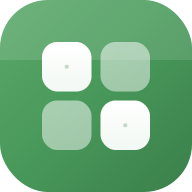
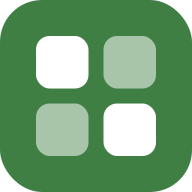
Add files via upload

diff --git a/index.html b/index.html
@@ -6,9 +6,14 @@
 <title>جدولي | مدرسة الليث بن سعد</title>
 <meta name="description" content="الجدول الأسبوعي لطلاب الصف الثاني المتوسط، الفصل 5/2">
 <meta name="theme-color" content="#f2f7ee">
-<link rel="manifest" href="manifest.webmanifest">
-<link rel="icon" href="icons/icon.svg" type="image/svg+xml">
-<link rel="apple-touch-icon" href="icons/icon-192.png">
+<link rel="manifest" href="/manifest.webmanifest">
+<link rel="icon" href="/icons/icon-192.png" type="image/png" sizes="192x192">
+<link rel="icon" href="/icons/icon-512.png" type="image/png" sizes="512x512">
+<link rel="apple-touch-icon" href="/icons/icon-192.png" sizes="192x192">
+<meta name="mobile-web-app-capable" content="yes">
+<meta name="apple-mobile-web-app-capable" content="yes">
+<meta name="apple-mobile-web-app-status-bar-style" content="default">
+<meta name="apple-mobile-web-app-title" content="جدولي">
 <link rel="preconnect" href="https://fonts.googleapis.com">
 <link rel="preconnect" href="https://fonts.gstatic.com" crossorigin>
 <link href="https://fonts.googleapis.com/css2?family=Readex+Pro:wght@300;400;500;600;700&display=swap" rel="stylesheet">
@@ -138,13 +143,40 @@ summary{min-height:46px;display:flex;align-items:center;font-weight:500;cursor:p
 .detail-row:nth-child(3){animation-delay:.12s}
 .detail-row .ic-wrap{width:42px;height:42px;border-radius:14px;background:var(--surface);display:grid;place-items:center;color:var(--pri)}
 .detail-row .meta{flex:1}.detail-row .meta b{display:block;font-size:.82rem;color:var(--muted);font-weight:500}.detail-row .meta span{font-weight:600}
-.prow{cursor:pointer;transition:transform .18s,background .25s}
+.prow{cursor:pointer;transition:transform .18s,background .25s;animation:fadeSlide .4s cubic-bezier(.2,.85,.2,1) both}
 .prow:active{transform:scale(.98)}
-.card{animation:fadeSlide .35s cubic-bezier(.2,.85,.2,1) both}
+.plist .prow:nth-child(1){animation-delay:.02s}
+.plist .prow:nth-child(2){animation-delay:.05s}
+.plist .prow:nth-child(3){animation-delay:.08s}
+.plist .prow:nth-child(4){animation-delay:.11s}
+.plist .prow:nth-child(5){animation-delay:.14s}
+.plist .prow:nth-child(6){animation-delay:.17s}
+.plist .prow:nth-child(7){animation-delay:.2s}
+.card{animation:fadeSlide .38s cubic-bezier(.2,.85,.2,1) both}
+.chips{animation:fadeSlide .32s cubic-bezier(.2,.85,.2,1) both}
+.chip{transition:transform .2s,background .25s,color .25s}
+.chip:active{transform:scale(.94)}
+.btns{animation:fadeSlide .4s cubic-bezier(.2,.85,.2,1) both}
+.btn{transition:transform .18s,filter .2s,background .25s}
+.arch{animation:fadeSlide .4s cubic-bezier(.2,.85,.2,1) both}
+.arch:nth-child(2){animation-delay:.05s}
+.arch:nth-child(3){animation-delay:.1s}
+.arch:nth-child(4){animation-delay:.15s}
+.hero{animation:fadeSlide .36s cubic-bezier(.2,.85,.2,1) both}
+.row-slide{animation:slideIn .4s cubic-bezier(.2,.85,.2,1) both}
+.seg{animation:fadeSlide .35s cubic-bezier(.2,.85,.2,1) both}
+.edit-tw{animation:fadeSlide .4s cubic-bezier(.2,.85,.2,1) both}
+.stick{animation:fadeSlide .45s cubic-bezier(.2,.85,.2,1) both}
+.tools{animation:fadeSlide .38s cubic-bezier(.2,.85,.2,1) both}
+.detail-hero{animation:fadeSlide .35s cubic-bezier(.2,.85,.2,1) both}
+#view.slide-in > *{animation:fadeSlide .4s cubic-bezier(.2,.85,.2,1) both}
+#view.slide-in > *:nth-child(2){animation-delay:.04s}
+#view.slide-in > *:nth-child(3){animation-delay:.08s}
+#view.slide-in > *:nth-child(4){animation-delay:.12s}
 @keyframes slideUp{from{transform:translateY(100%);opacity:.55}to{transform:translateY(0);opacity:1}}
 @keyframes scaleIn{from{transform:scale(.94);opacity:0}to{transform:scale(1);opacity:1}}
-@keyframes slideIn{from{transform:translateX(18px);opacity:0}to{transform:translateX(0);opacity:1}}
-@keyframes fadeSlide{from{transform:translateY(12px);opacity:0}to{transform:translateY(0);opacity:1}}
+@keyframes slideIn{from{transform:translateX(22px);opacity:0}to{transform:translateX(0);opacity:1}}
+@keyframes fadeSlide{from{transform:translateY(16px);opacity:0}to{transform:translateY(0);opacity:1}}
 @keyframes fd{from{opacity:0}}
 @media(prefers-reduced-motion:reduce){*{animation-duration:.01ms!important;transition-duration:.01ms!important}}
 </style>
@@ -317,7 +349,8 @@ const route = () => ({ "#week": "week", "#archive": "archive", "#admin": "admin"
 function appbar(r) {
   const titles = { week: "الجدول الأسبوعي", archive: "الأرشيف", admin: "لوحة الإدارة" };
   const shareBtn = `<button class="iconbtn soft share-btn" data-act="share" aria-label="مشاركة">${ic("share")}</button>`;
-  const installBtn = isStandalone() ? "" : `<button class="iconbtn soft install-btn" data-act="install-icon" aria-label="تثبيت على الشاشة الرئيسية">${ic("homeadd")}</button>`;
+  // أيقونة تنزيل ظاهرة دائماً ما دام التطبيق غير مثبت
+  const installBtn = isStandalone() ? "" : `<button class="iconbtn soft install-btn" data-act="install-icon" aria-label="تثبيت التطبيق">${ic("download")}</button>`;
   if (r === "home") return `<div class="logo">${ic("grid")}</div><h1>جدولي</h1>${shareBtn}${installBtn}<button class="iconbtn" data-act="settings" aria-label="الإعدادات">${ic("settings")}</button>`;
   return `<button class="iconbtn" data-act="home" aria-label="رجوع">${ic("back")}</button><h1>${titles[r]}</h1>${shareBtn}${installBtn}<button class="iconbtn" data-act="settings" aria-label="الإعدادات">${ic("settings")}</button>`;
 }
@@ -531,7 +564,12 @@ function render() {
   if (r === "admin" && authReady && !isAdmin) { r = "admin"; }
   $("#appbar").innerHTML = appbar(r);
   const v = { home: homeView, week: weekView, archive: archiveView, admin: adminView }[r]();
-  $("#view").innerHTML = v;
+  const view = $("#view");
+  view.classList.remove("slide-in");
+  view.innerHTML = v;
+  // إجبار إعادة تشغيل الانزلاق
+  void view.offsetWidth;
+  view.classList.add("slide-in");
   if (r === "admin" && isAdmin) fillAdmin();
   window.scrollTo(0, 0);
 }
@@ -550,15 +588,37 @@ document.addEventListener("click", async e => {
     case "settings": settingsSheet(); break;
     case "install":
     case "install-icon": {
+      // أندرويد: إذا وصل beforeinstallprompt → نفتح زر التثبيت فوراً
       if (installEvt) {
-        installEvt.prompt();
-        await installEvt.userChoice.catch(() => {});
+        try {
+          installEvt.prompt();
+          const choice = await installEvt.userChoice.catch(() => null);
+          if (choice && choice.outcome === "accepted") toast("جاري التثبيت…");
+        } catch (err) {}
         installEvt = null;
         closeSheet();
+        // إعادة رسم الشريط لإخفاء الأيقونة بعد التثبيت
+        setTimeout(() => { if (isStandalone()) render(); }, 800);
       } else {
-        // iOS / متصفحات بدون beforeinstallprompt → نفتح مشاركة أو إرشادات
+        // لم يصل الحدث بعد أو iOS → نحاول مرة أخرى أو نعرض المساعدة
         const isIOS = /iPad|iPhone|iPod/.test(navigator.userAgent) || (navigator.platform === "MacIntel" && navigator.maxTouchPoints > 1);
-        if (navigator.share) {
+        if (!isIOS) {
+          // أندرويد بدون prompt جاهز: ننتظر لحظة ثم نعيد المحاولة أو نرشد
+          toast("انتظر لحظة…");
+          // أعد الاستماع لاحتمال وصول الحدث
+          const once = e => {
+            e.preventDefault();
+            installEvt = e;
+            removeEventListener("beforeinstallprompt", once);
+            installEvt.prompt();
+          };
+          addEventListener("beforeinstallprompt", once, { once: true });
+          // إن لم يأتِ خلال ثانيتين نعرض المساعدة
+          setTimeout(() => {
+            removeEventListener("beforeinstallprompt", once);
+            if (!installEvt) showInstallHelp(false);
+          }, 1800);
+        } else if (navigator.share) {
           try {
             await navigator.share({
               title: "جدولي",
@@ -566,10 +626,10 @@ document.addEventListener("click", async e => {
               url: SHARE_URL
             });
           } catch (err) {
-            if (err.name !== "AbortError") showInstallHelp(isIOS);
+            if (err.name !== "AbortError") showInstallHelp(true);
           }
         } else {
-          showInstallHelp(isIOS);
+          showInstallHelp(true);
         }
       }
       break;
@@ -734,7 +794,7 @@ setTimeout(hideSplash, 4000);
 /* ===== PWA ===== */
 if ("serviceWorker" in navigator) {
   const had = !!navigator.serviceWorker.controller; let reloaded = false;
-  navigator.serviceWorker.register("service-worker.js").catch(() => {});
+  navigator.serviceWorker.register("/service-worker.js").catch(() => {});
   navigator.serviceWorker.addEventListener("controllerchange", () => { if (had && !reloaded) { reloaded = true; location.reload(); } });
 }
 </script>

diff --git a/service-worker.js b/service-worker.js
@@ -1,6 +1,6 @@
 // غيّر رقم الإصدار عند تعديل ملفات التطبيق ليصل التحديث للطلاب
-const VERSION = "jadwali-v1";
-const SHELL = ["./", "./index.html", "./manifest.webmanifest", "./icons/icon.svg", "./icons/icon-192.png", "./icons/icon-512.png"];
+const VERSION = "jadwali-v3";
+const SHELL = ["/", "/index.html", "/manifest.webmanifest", "/icons/icon-192.png", "/icons/icon-512.png", "/icons/icon-maskable-512.png"];
 const CROSS = ["www.gstatic.com", "fonts.googleapis.com", "fonts.gstatic.com"];
 
 self.addEventListener("install", e => {
@@ -14,10 +14,9 @@ self.addEventListener("fetch", e => {
   if (req.method !== "GET") return;
   const url = new URL(req.url);
   const same = url.origin === self.location.origin;
-  if (!same && !CROSS.includes(url.hostname)) return; // لا نعترض اتصالات Firestore وAuth
-  if (same && (req.mode === "navigate" || url.pathname.endsWith("/index.html"))) {
-    // الشبكة أولاً لتصل التحديثات، ثم النسخة المخزنة دون اتصال
-    e.respondWith(fetch(req).then(r => { const c = r.clone(); caches.open(VERSION).then(x => x.put("./index.html", c)); return r; }).catch(() => caches.match("./index.html")));
+  if (!same && !CROSS.includes(url.hostname)) return;
+  if (same && (req.mode === "navigate" || url.pathname.endsWith("/index.html") || url.pathname === "/")) {
+    e.respondWith(fetch(req).then(r => { const c = r.clone(); caches.open(VERSION).then(x => x.put("/index.html", c)); return r; }).catch(() => caches.match("/index.html").then(m => m || caches.match("/"))));
     return;
   }
   e.respondWith(caches.open(VERSION).then(async cache => {
